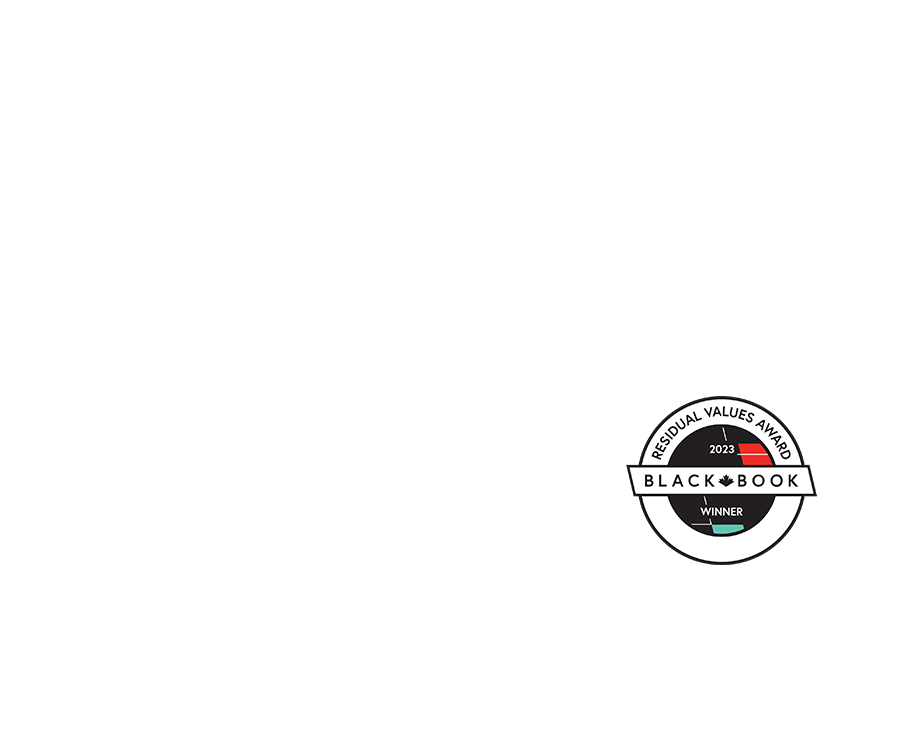
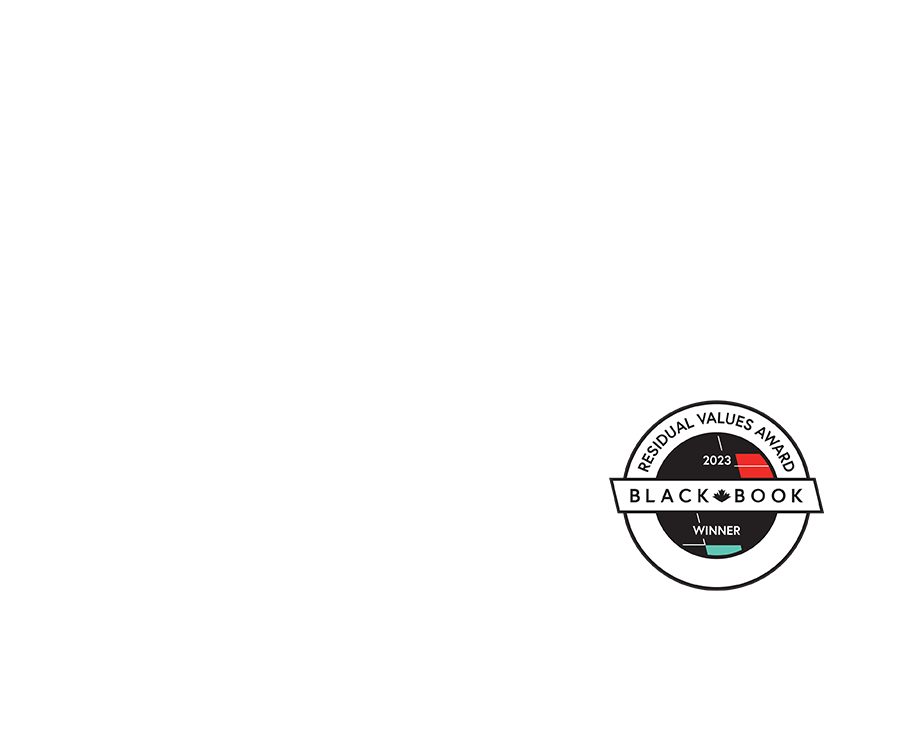
2023 TOYOTA ITTT October (westminster)

Changed region(s): [[0.6533, 0.5213, 0.9333, 0.7973]]

diff --git a/banners/WESTMINSTER/tacoma/728x90-HING/index.html b/banners/WESTMINSTER/tacoma/728x90-HING/index.html
@@ -50,7 +50,7 @@
         <p class="legal-text ad-element">
           *Conditions Apply.
           <a
-            href="https://www.westminstertoyota.com/new/Toyota/2023-Toyota-Tacoma-69b1fad80a0e09b055c85f12afc56b17.htm"
+            href="https://www.westminstertoyota.com/new/Toyota/2023-Toyota-Tacoma-b7da3a0d0a0e09a81308f9cf3b3b1690.htm"
             target="_blank"
             >Click</a
           >
@@ -73,7 +73,7 @@
         .to('.frame2', { alpha: 0 }, '+=2')
         .to('#background', { duration: 1, x: '-=225', ease: 'power1.inOut' }, '<')
         .to('.vehicle', { duration: 1, x: '-=220', ease: 'power1.inOut' }, '<')
-        .to('.logo', { y: '+=18', ease: 'power1.inOut' }, '<')
+        .to('.logo', { y: '+=21', ease: 'power1.inOut' }, '<')
         .from(['.frame3', '#legal-btn'], { alpha: 0 });
 
       // legal modal event

diff --git a/banners/WESTMINSTER/tacoma/728x90-PUNJ/index.html b/banners/WESTMINSTER/tacoma/728x90-PUNJ/index.html
@@ -50,7 +50,7 @@
         <p class="legal-text ad-element">
           *Conditions Apply.
           <a
-            href="https://www.westminstertoyota.com/new/Toyota/2023-Toyota-Tacoma-69b1fad80a0e09b055c85f12afc56b17.htm"
+            href="https://www.westminstertoyota.com/new/Toyota/2023-Toyota-Tacoma-b7da3a0d0a0e09a81308f9cf3b3b1690.htm"
             target="_blank"
             >Click</a
           >
@@ -73,7 +73,7 @@
         .to('.frame2', { alpha: 0 }, '+=2')
         .to('#background', { duration: 1, x: '-=225', ease: 'power1.inOut' }, '<')
         .to('.vehicle', { duration: 1, x: '-=220', ease: 'power1.inOut' }, '<')
-        .to('.logo', { y: '+=18', ease: 'power1.inOut' }, '<')
+        .to('.logo', { y: '+=21', ease: 'power1.inOut' }, '<')
         .from(['.frame3', '#legal-btn'], { alpha: 0 });
 
       // legal modal event

diff --git a/banners/WESTMINSTER/tundra/728x90-HING/index.html b/banners/WESTMINSTER/tundra/728x90-HING/index.html
@@ -50,7 +50,7 @@
         <p class="legal-text ad-element">
           *Conditions Apply.
           <a
-            href="https://www.westminstertoyota.com/new/Toyota/2024-Toyota-Tundra-64ac38bf0a0e09b055c85f127ea9d942.htm"
+            href="https://www.westminstertoyota.com/new/Toyota/2024-Toyota-Tundra-b7bbc8a40a0e09b01399469cb9c0d8ee.htm"
             target="_blank"
             >Click</a
           >
@@ -73,7 +73,7 @@
         .to('.frame2', { alpha: 0 }, '+=2')
         .to('#background', { duration: 1, x: '-=225', ease: 'power1.inOut' }, '<')
         .to('.vehicle', { duration: 1, x: '-=220', ease: 'power1.inOut' }, '<')
-        .to('.logo', { y: '+=18', ease: 'power1.inOut' }, '<')
+        .to('.logo', { y: '+=21', ease: 'power1.inOut' }, '<')
         .from(['.frame3', '#legal-btn'], { alpha: 0 });
 
       // legal modal event

diff --git a/banners/WESTMINSTER/tundra/728x90-PUNJ/index.html b/banners/WESTMINSTER/tundra/728x90-PUNJ/index.html
@@ -50,7 +50,7 @@
         <p class="legal-text ad-element">
           *Conditions Apply.
           <a
-            href="https://www.westminstertoyota.com/new/Toyota/2024-Toyota-Tundra-64ac38bf0a0e09b055c85f127ea9d942.htm"
+            href="https://www.westminstertoyota.com/new/Toyota/2024-Toyota-Tundra-b7bbc8a40a0e09b01399469cb9c0d8ee.htm"
             target="_blank"
             >Click</a
           >
@@ -73,7 +73,7 @@
         .to('.frame2', { alpha: 0 }, '+=2')
         .to('#background', { duration: 1, x: '-=225', ease: 'power1.inOut' }, '<')
         .to('.vehicle', { duration: 1, x: '-=220', ease: 'power1.inOut' }, '<')
-        .to('.logo', { y: '+=18', ease: 'power1.inOut' }, '<')
+        .to('.logo', { y: '+=21', ease: 'power1.inOut' }, '<')
         .from(['.frame3', '#legal-btn'], { alpha: 0 });
 
       // legal modal event

diff --git a/index.html b/index.html
@@ -5,12 +5,12 @@
     <meta http-equiv="X-UA-Compatible" content="IE=edge" />
     <meta name="viewport" content="width=device-width, initial-scale=1.0" />
     <link rel="stylesheet" href="styles.css" />
-    <title>Westminster Toyota - ITTT September 2023 - Offer Banners</title>
+    <title>Westminster Toyota - ITTT October 2023 - Offer Banners</title>
   </head>
   <body>
     <header>
-      <p>September 13, 2023</p>
-      <h1>Westminster Toyota - ITTT September 2023 - Offer Banners</h1>
+      <p>October 16, 2023</p>
+      <h1>Westminster Toyota - ITTT October 2023 - Offer Banners</h1>
     </header>
     <div class="container">
       <section class="section">

diff --git a/banners/WESTMINSTER/tacoma/300x250-HING/index.html b/banners/WESTMINSTER/tacoma/300x250-HING/index.html
@@ -50,7 +50,7 @@
         <p class="legal-text ad-element">
           *Conditions Apply.
           <a
-            href="https://www.westminstertoyota.com/new/Toyota/2023-Toyota-Tacoma-69b1fad80a0e09b055c85f12afc56b17.htm"
+            href="https://www.westminstertoyota.com/new/Toyota/2023-Toyota-Tacoma-b7da3a0d0a0e09a81308f9cf3b3b1690.htm"
             target="_blank"
             >Click</a
           >

diff --git a/banners/WESTMINSTER/tacoma/300x250-PUNJ/index.html b/banners/WESTMINSTER/tacoma/300x250-PUNJ/index.html
@@ -50,7 +50,7 @@
         <p class="legal-text ad-element">
           *Conditions Apply.
           <a
-            href="https://www.westminstertoyota.com/new/Toyota/2023-Toyota-Tacoma-69b1fad80a0e09b055c85f12afc56b17.htm"
+            href="https://www.westminstertoyota.com/new/Toyota/2023-Toyota-Tacoma-b7da3a0d0a0e09a81308f9cf3b3b1690.htm"
             target="_blank"
             >Click</a
           >

diff --git a/banners/WESTMINSTER/tundra/300x250-HING/index.html b/banners/WESTMINSTER/tundra/300x250-HING/index.html
@@ -50,7 +50,7 @@
         <p class="legal-text ad-element">
           *Conditions Apply.
           <a
-            href="https://www.westminstertoyota.com/new/Toyota/2024-Toyota-Tundra-64ac38bf0a0e09b055c85f127ea9d942.htm"
+            href="https://www.westminstertoyota.com/new/Toyota/2024-Toyota-Tundra-b7bbc8a40a0e09b01399469cb9c0d8ee.htm"
             target="_blank"
             >Click</a
           >

diff --git a/banners/WESTMINSTER/tundra/300x250-PUNJ/index.html b/banners/WESTMINSTER/tundra/300x250-PUNJ/index.html
@@ -50,7 +50,7 @@
         <p class="legal-text ad-element">
           *Conditions Apply.
           <a
-            href="https://www.westminstertoyota.com/new/Toyota/2024-Toyota-Tundra-64ac38bf0a0e09b055c85f127ea9d942.htm"
+            href="https://www.westminstertoyota.com/new/Toyota/2024-Toyota-Tundra-b7bbc8a40a0e09b01399469cb9c0d8ee.htm"
             target="_blank"
             >Click</a
           >

diff --git a/banners/WESTMINSTER/tacoma/728x90-HING/styles.css b/banners/WESTMINSTER/tacoma/728x90-HING/styles.css
@@ -37,16 +37,16 @@ body {
 }
 
 .vehicle {
-  width: 200px;
+  width: 190px;
   height: auto;
-  right: 155px;
-  bottom: -16px;
+  right: 160px;
+  bottom: -12px;
 }
 
 .logo {
   width: 110px;
   height: auto;
-  bottom: 25px;
+  bottom: 30px;
   right: 8px;
 }
 

diff --git a/banners/WESTMINSTER/tacoma/728x90-PUNJ/styles.css b/banners/WESTMINSTER/tacoma/728x90-PUNJ/styles.css
@@ -37,16 +37,16 @@ body {
 }
 
 .vehicle {
-  width: 200px;
+  width: 190px;
   height: auto;
-  right: 155px;
-  bottom: -16px;
+  right: 160px;
+  bottom: -12px;
 }
 
 .logo {
   width: 110px;
   height: auto;
-  bottom: 25px;
+  bottom: 30px;
   right: 8px;
 }
 

diff --git a/banners/WESTMINSTER/tundra/728x90-HING/styles.css b/banners/WESTMINSTER/tundra/728x90-HING/styles.css
@@ -37,16 +37,16 @@ body {
 }
 
 .vehicle {
-  width: 200px;
+  width: 190px;
   height: auto;
-  right: 150px;
-  bottom: -16px;
+  right: 158px;
+  bottom: -12px;
 }
 
 .logo {
   width: 110px;
   height: auto;
-  bottom: 25px;
+  bottom: 30px;
   right: 8px;
 }
 
